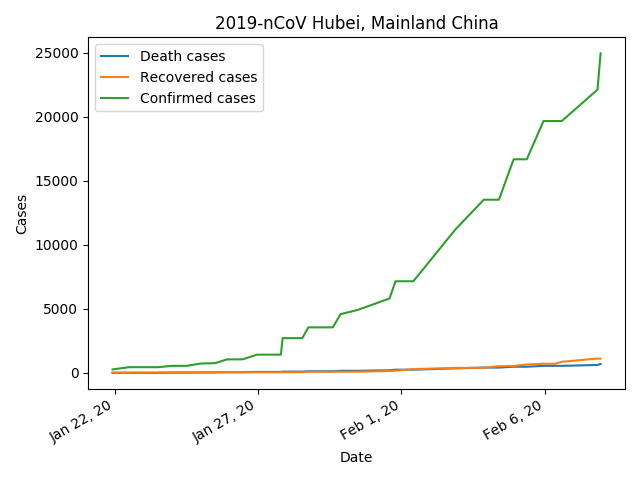
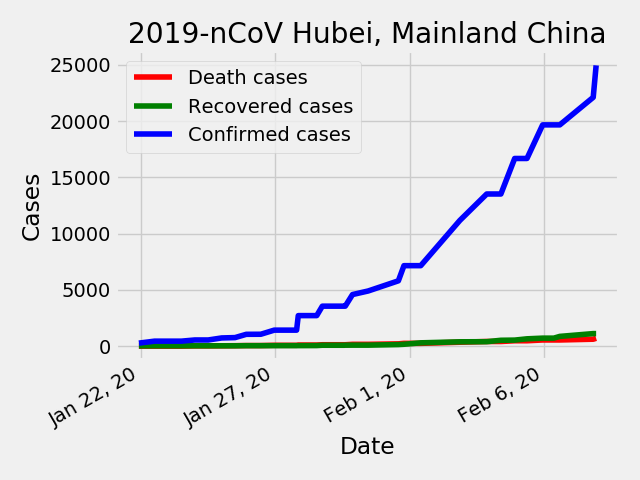
changed style

diff --git a/main.py b/main.py
@@ -21,7 +21,7 @@ def produce_chart(country=None, state=None, log=False):
 
   # style preset
   # plt.xkcd()
-  # plt.style.use('fivethirtyeight')
+  plt.style.use('fivethirtyeight')
 
   # format dates correctyl and nicely %m/%d/%Y
   plt.gca().xaxis.set_major_formatter(mdates.DateFormatter('%b %-d, %-y'))
@@ -29,9 +29,9 @@ def produce_chart(country=None, state=None, log=False):
   # interval so graph is not cluttered
   plt.gca().xaxis.set_major_locator(mdates.DayLocator(interval=5))
 
-  plt.plot(dates, death,  label='Death cases')
-  plt.plot(dates, recovered,  label='Recovered cases')
-  plt.plot(dates, confirmed,  label='Confirmed cases')
+  plt.plot(dates, death, color='r', label='Death cases')
+  plt.plot(dates, recovered, color='g', label='Recovered cases')
+  plt.plot(dates, confirmed, color='b', label='Confirmed cases')
 
   plt.xlabel('Date')
   plt.ylabel('Cases')
